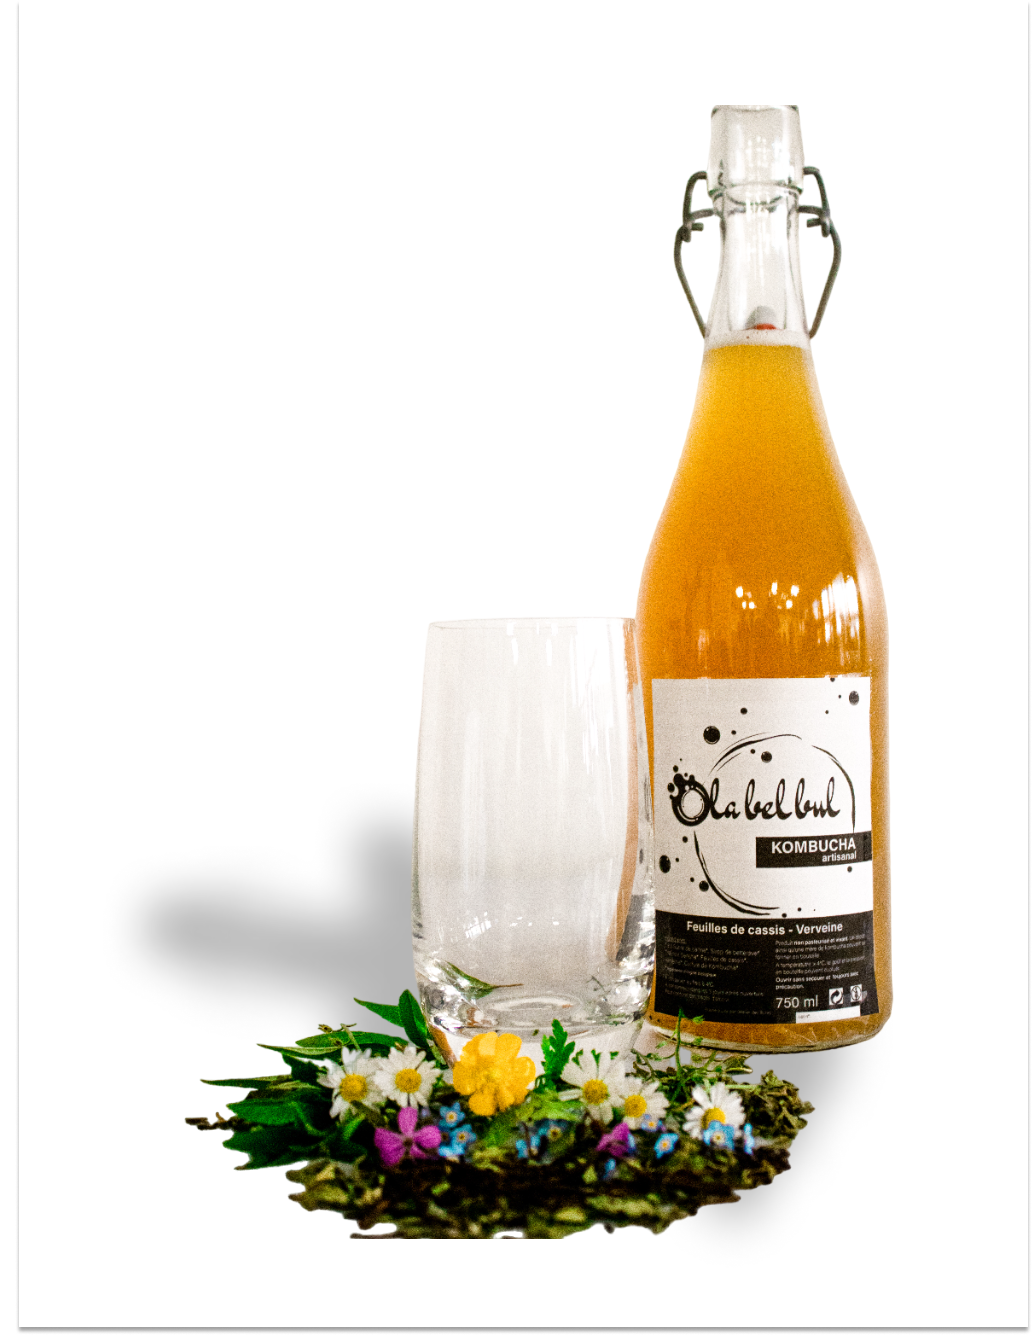
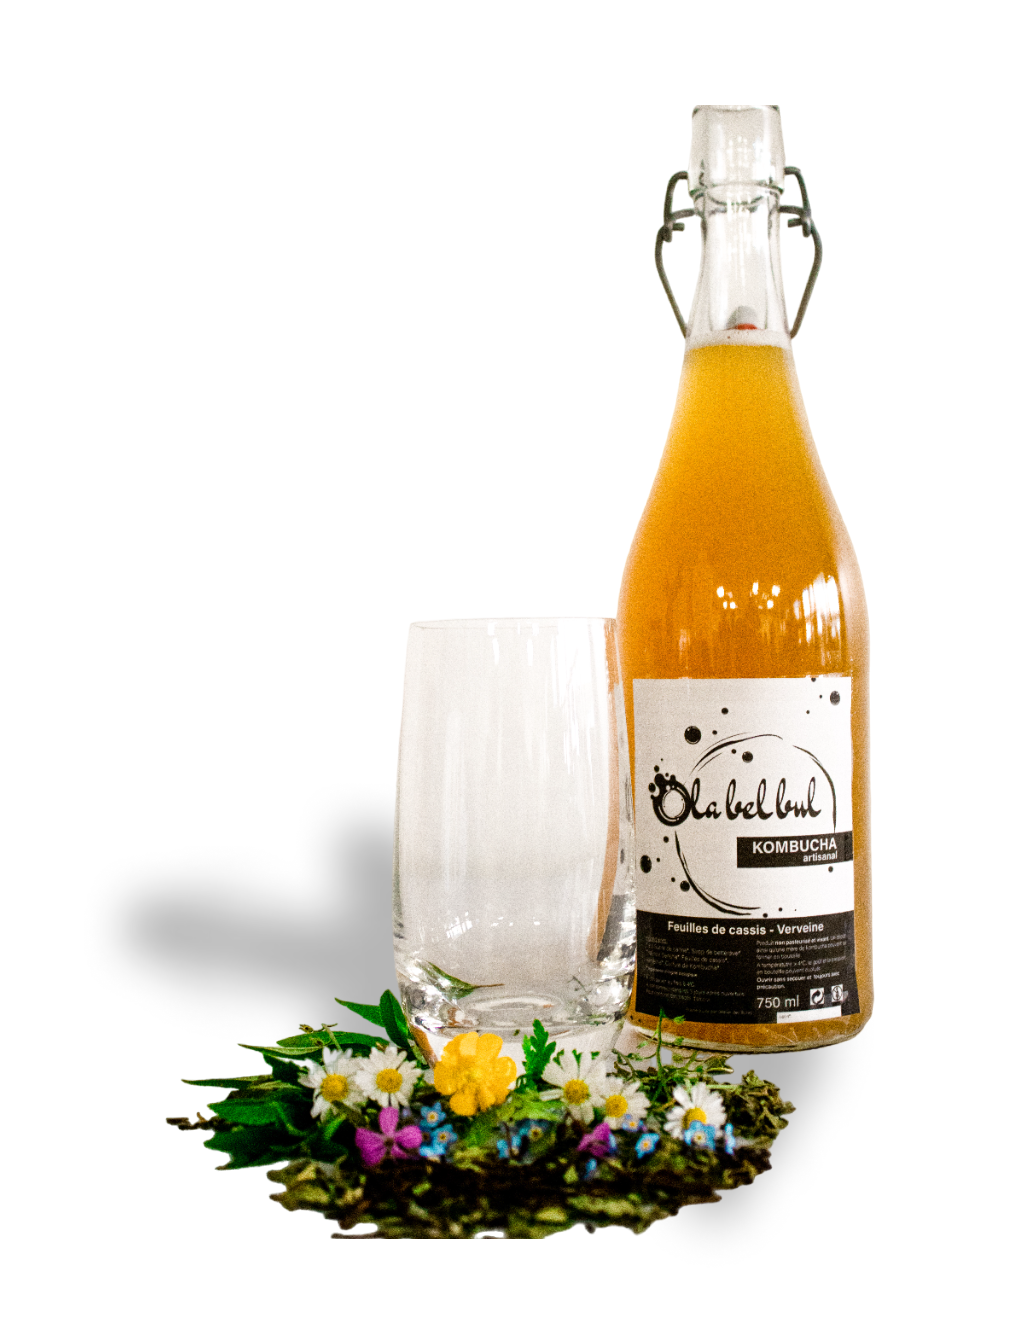
change img index new product

Changed region(s): [[0.1536, 0.0927, 0.8603, 0.9578], [0.0, 0.9887, 1.0, 1.0]]

diff --git a/style.css b/style.css
@@ -307,6 +307,9 @@ a.btn-home-page img:hover {
   left: 0;
 }
 @media (max-width: 960px) {
+  .video-header{
+
+  }
   .image-header {
     height: 50vh;
   }
@@ -391,8 +394,8 @@ main {
 .new-product img {
   display: flex;
   width: 35%;
-  height: 80vh;
-  object-fit: contain;
+  height: 70vh;
+  object-fit: cover;
   margin: 0 5%;
   
 }
@@ -442,7 +445,7 @@ main {
   position: relative;
   overflow: hidden;
   width: 45%;
-  height: 600px;
+  height: 500px;
   display: flex;
   flex-direction: row;
   justify-content: center;
@@ -589,7 +592,7 @@ main.produits-page .block-small {
 .nav-product {
   display: flex;
   width: 100%;
-  justify-content: space-around;
+  justify-content: center;
   padding: 40px 0;
 }
 .nav-product a {
@@ -602,6 +605,7 @@ main.produits-page .block-small {
   text-transform: uppercase;
   padding: 10px 20px;
   color: black;
+  width: 30%;
   transition: all 0.4s;
 }
 .nav-product a:hover {
@@ -660,9 +664,11 @@ main.produits-page .block-small {
 .detail-ateliers img {
   object-fit: cover;
   object-position: center;
-  height: 90%;
+  height: 70%;
   max-width: 40%;
-  box-shadow: 5px 5px 5px var(--shadow);
+}
+.content-detail1{
+  width: 50%;
 }
 .content-detail1 .titre-produit,
 .content-detail2 .titre-produit,
@@ -680,8 +686,8 @@ main.produits-page .block-small {
 .content-detail2 .titre-produit img,
 .content-detail3 .titre-produit img,
 .content-detail4 .titre-produit img {
-  width: 20%;
-  margin-right: 20px;
+  width: 15%;
+  margin: 20px;
 }
 .content-detail1 .text-detail-produit,
 .content-detail2 .text-detail-produit,
@@ -690,6 +696,11 @@ main.produits-page .block-small {
   font-family: var(--font-text2);
   font-size: clamp(1em, 2.3vw, 1.6em);
   padding: 0 50px;
+}
+.content-detail1{
+  display: flex;
+  flex-direction: column;
+  justify-content: center;
 }
 .content-detail1 .contactme{
   text-align: center;

diff --git a/script.js b/script.js
@@ -113,18 +113,18 @@ if (btnAteliers != undefined){
     });
 }
 
-import { initializeApp } from "https://www.gstatic.com/firebasejs/9.22.2/firebase-app.js";
-import { getFirestore  } from "https://www.gstatic.com/firebasejs/9.22.0/firebase-firestore.js";
+// import { initializeApp } from "https://www.gstatic.com/firebasejs/9.22.2/firebase-app.js";
+// import { getFirestore  } from "https://www.gstatic.com/firebasejs/9.22.0/firebase-firestore.js";
 
-const firebaseConfig = {
-    apiKey: "AIzaSyDpyV-WgfmuG-TvBwKbDRP-tT9BvAS3Fw4",
-    authDomain: "olabelbul-8bf6d.firebaseapp.com",
-    projectId: "olabelbul-8bf6d",
-    storageBucket: "olabelbul-8bf6d.appspot.com",
-    messagingSenderId: "83175455639",
-    appId: "1:83175455639:web:88d72d01bdefe01826a2d2"
-};
+// const firebaseConfig = {
+//     apiKey: "AIzaSyDpyV-WgfmuG-TvBwKbDRP-tT9BvAS3Fw4",
+//     authDomain: "olabelbul-8bf6d.firebaseapp.com",
+//     projectId: "olabelbul-8bf6d",
+//     storageBucket: "olabelbul-8bf6d.appspot.com",
+//     messagingSenderId: "83175455639",
+//     appId: "1:83175455639:web:88d72d01bdefe01826a2d2"
+// };
 
-const app = initializeApp(firebaseConfig);
+// const app = initializeApp(firebaseConfig);
 
-const db = getFirestore(app);
+// const db = getFirestore(app);

diff --git a/index.html b/index.html
@@ -57,7 +57,7 @@
                 Profitez de son goût délicieux et laissez-vous emporter par son énergie positive.
                 </p>
             </div>
-            <img src="./media/kombucha-framboise-cassis.png" alt="kombucha-framboise-cassis">
+            <img src="./media/kombucha-framboise-cassis2.png" alt="kombucha-framboise-cassis">
         </div>
         <div class="top-content">
             <a href="./kombucha.html" class="block-small produits">

diff --git a/README.md b/README.md
@@ -1,5 +1,6 @@
 # ola-project
- OLA BEL BUL 
+
+OLA BEL BUL
 Hand Made Kombucha
 
-Project Simplon formation for profesionnal 
+Project Simplon formation for profesionnal
